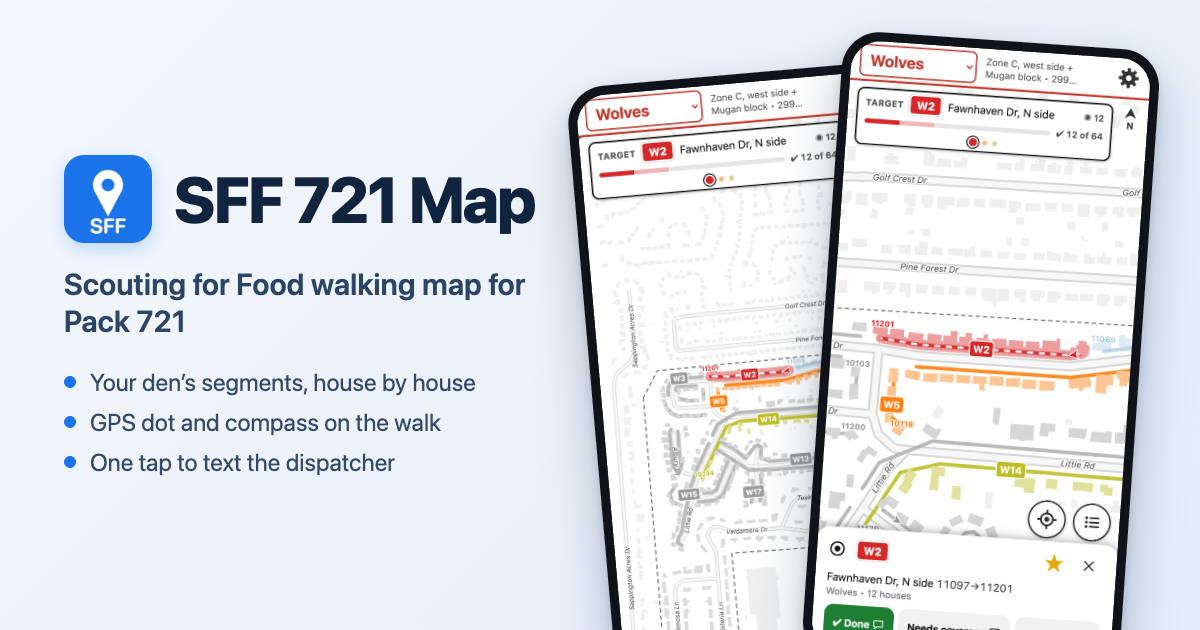
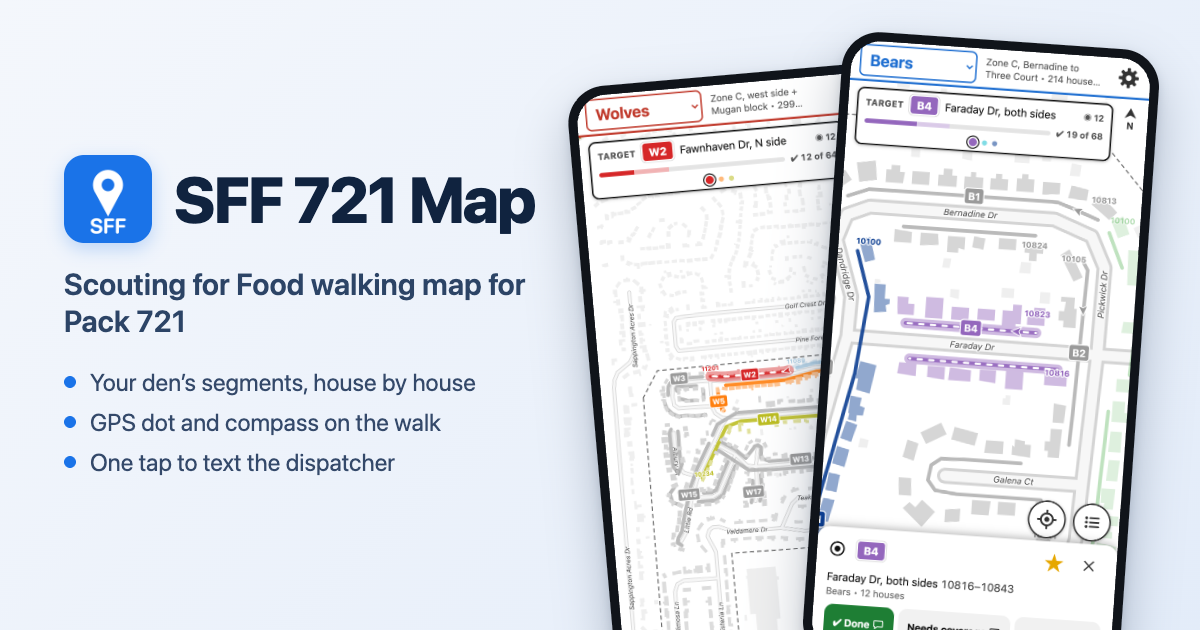
Social card: Wolves on the back phone, Bears on the front

Changed region(s): [[0.6783, 0.2413, 0.9558, 0.9651], [0.7092, 0.0603, 0.9558, 0.2111], [0.8017, 0.2111, 0.8325, 0.2413]]

diff --git a/app/index.html b/app/index.html
@@ -18,7 +18,7 @@
 <meta property="og:image" content="https://pack3721.github.io/SFF/social-card.png">
 <meta property="og:image:width" content="1200">
 <meta property="og:image:height" content="630">
-<meta property="og:image:alt" content="The SFF 721 Map app: a Wolves den map with target segment W2 and its card.">
+<meta property="og:image:alt" content="The SFF 721 Map app on two phones: the Wolves map with target W2, and the Bears map with segment B4's card open.">
 <meta name="twitter:card" content="summary_large_image">
 <link rel="icon" href="icons/icon-192.png">
 <!-- Add to Home Screen: opens full screen with its own icon. The web manifest is added by app.js on

diff --git a/tools/social-card/README.md b/tools/social-card/README.md
@@ -2,6 +2,6 @@
 
 `app/social-card.png` (1200×630) is the picture shown when the map link is shared. `card.html` lays it out. To remake it:
 
-1. Take two Pixel 7-sized screenshots of the app, `map.png` (a den map with a target) and `card.png` (the same with the target's card open), using example data such as "Wolf A" and no real phone numbers.
+1. Take two Pixel 7-sized screenshots of the app, `map.png` (one den's map with a target, e.g. Wolves) and `card.png` (a different den with the target's card open, e.g. Bears), using example data such as "Wolf A" and no real phone numbers.
 2. Put them next to `card.html` with `icon.png` (a copy of `app/icons/icon-192.png`).
 3. Open `card.html` in a 1200×630 browser window, screenshot it, and save it as `app/social-card.png`.
